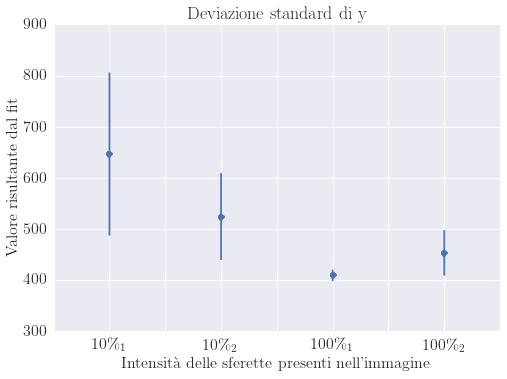
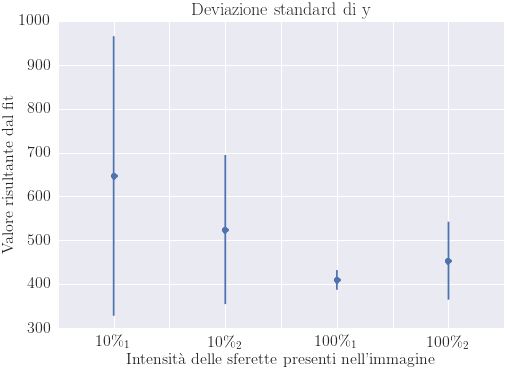
Aggiunte le matrici di correlazione

diff --git a/cap4.tex b/cap4.tex
@@ -146,37 +146,39 @@ Dalle Figure \ref{fig:gauss1}, \ref{fig:gauss2}, \ref{fig:gauss3} e \ref{fig:gau
 
 \begin{figure}
  \centering
- \includegraphics[scale=.50]{img/CAP4gauss1.png}
+ \includegraphics[scale=.45]{img/CAP4gauss1.png}
  \caption{\small{Immagine in visione ``cross eyed stereoscopic'' corrispondente alla prima immagine di calibrazione con intensità relativa del 10\%: i puntini rappresentano i massimi mentre la superficie è quella risultante dal fit di maximum likelihood.}}
  \label{fig:gauss1}
 \end{figure}
 
 \begin{figure}
  \centering
- \includegraphics[scale=.50]{img/CAP4gauss2.png}
+ \includegraphics[scale=.45]{img/CAP4gauss2.png}
  \caption{\small{Immagine in visione ``cross eyed stereoscopic'' corrispondente alla seconda immagine di calibrazione con intensità relativa del 10\%: i puntini rappresentano i massimi mentre la superficie è quella risultante dal fit di maximum likelihood.}}
  \label{fig:gauss2}
 \end{figure}
 
 \begin{figure}
  \centering
- \includegraphics[scale=.50]{img/CAP4gauss3.png}
+ \includegraphics[scale=.45]{img/CAP4gauss3.png}
  \caption{\small{Immagine in visione ``cross eyed stereoscopic'' corrispondente alla prima immagine di calibrazione con intensità relativa del 100\%: i puntini rappresentano i massimi mentre la superficie è quella risultante dal fit di maximum likelihood.}}
  \label{fig:gauss3}
 \end{figure}
 
 \begin{figure}
  \centering
- \includegraphics[scale=.50]{img/CAP4gauss4.png}
+ \includegraphics[scale=.45]{img/CAP4gauss4.png}
  \caption{\small{Immagine in visione ``cross eyed stereoscopic'' corrispondente alla seconda immagine di calibrazione con intensità relativa del 100\%: i puntini rappresentano i massimi mentre la superficie è quella risultante dal fit di maximum likelihood.}}
  \label{fig:gauss4}
 \end{figure}
 
-Per poter avere un'analisi di carattere più quantitativo sono stati visualizzati i parametri $bg,\ maxint,\ cx,\ cy,\ dsx,\ dsy,\ corr$ ed $e$ ottenuti dalla stima di massima verosimiglianza (capitolo 3.1) eseguita nei quattro casi (Figure \ref{fig:cx}, \ref{fig:cy}, \ref{fig:dsy}, \ref{fig:dsy} \ref{fig:bg}, \ref{fig:intmax}, \ref{fig:corr} e \ref{fig:e}).
+Per poter avere un'analisi di carattere più quantitativo sono stati visualizzati i parametri $bg,\ maxint,\ cx,\ cy,\ dsx,\ dsy,\ corr$ ed $e$ ottenuti dalla stima di massima verosimiglianza (capitolo 3.1) eseguita nei quattro casi (Figure \ref{fig:cx}, \ref{fig:cy}, \ref{fig:dsx}, \ref{fig:dsy} \ref{fig:bg}, \ref{fig:intmax}, \ref{fig:corr} e \ref{fig:e}).
 Queste stime di massima verosimiglianza sono state inoltre raccolte nella \tablename~\ref{TABris}, assieme al primo parametro approssimato di background $bg_0$, calcolato inizialmente come massimo delle mode di ogni riga della matrice bidimensionale corrispondente all'immagine.
 
 Dall'analisi di questi risultati si nota che differenti immagini di calibrazione comportano in genere differenti parametri, sebbene i valori si mantengano solitamente entro lo stesso ordine di grandezza.
 Tuttavia per avere una miglior valutazione dell'effetto che tali differenze potrebbero comportare sulla correzione finale dell'immagine bisognerebbe eseguire elaborazioni successive, più raffinate rispetto alla semplice analisi qui riportata.
+
+Nelle Figure \ref{fig:c1}, \ref{fig:c2}, \ref{fig:c3}, \ref{fig:c4} sono riportate le matrici di correlazione tra le stime dei parametri per le quattro differenti immagini di calibrazione.
 
 \begin{table}
  \begin{center}
@@ -197,7 +199,7 @@ $\mathbf{maxint}$&$167\pm104$&$150\pm41$&$229\pm15$&$414\pm87$\\
 $\mathbf{e}$&$3.2\pm0.6$&$2.1\pm0.3$&$3.6\pm0.4$&$2.5\pm0.4$\\
 \hline\hline
 \end{tabular}
-\caption{\small{Confronto dei parametri ottenuti nella prima fase dell'algoritmo con quattro distinte immagini di calibrazione ad una sola intensità.}}
+\caption{\small{Confronto dei parametri ottenuti nella prima fase dell'algoritmo con quattro distinte immagini di calibrazione ad una sola intensità. Per ciascun parametro del fit vengono riportate la miglior stima e la deviazione standard associata, ottenute dalla procedura di fit. La precisione dei valori risulta elevata proprio poiché non si tratta di incertezze associate alla stima, bensì dei valori che approssimano localmente la funzione di likelihood con una distribuzione gaussiana.}}
 \label{TABris}
 \end{small}
 \end{center}
@@ -206,57 +208,85 @@ $\mathbf{e}$&$3.2\pm0.6$&$2.1\pm0.3$&$3.6\pm0.4$&$2.5\pm0.4$\\
 \begin{figure}
  \centering
  \includegraphics[scale=.50]{img/CAP4cx.png}
- \caption{\small{Parametro $cx$ (centro delle x) ed errore associato, ottenuti tramite il fit di maximum likelihood presente nell'algoritmo, per le quattro differenti immagini di calibrazione ad una sola intensità.}}
+ \caption{\small{Parametro $cx$ (centro delle x) e intervallo di confidenza al 95\%, ottenuti tramite il fit di maximum likelihood presente nell'algoritmo, per le quattro differenti immagini di calibrazione ad una sola intensità.}}
  \label{fig:cx}
 \end{figure}
 
 \begin{figure}
  \centering
  \includegraphics[scale=.50]{img/CAP4cy.png}
- \caption{\small{Parametro $cy$ (centro delle y) ed errore associato, ottenuti tramite il fit di maximum likelihood presente nell'algoritmo, per le quattro differenti immagini di calibrazione ad una sola intensità.}}
+ \caption{\small{Parametro $cy$ (centro delle y) e intervallo di confidenza al 95\%, ottenuti tramite il fit di maximum likelihood presente nell'algoritmo, per le quattro differenti immagini di calibrazione ad una sola intensità.}}
  \label{fig:cy}
 \end{figure}
 
 \begin{figure}
  \centering
  \includegraphics[scale=.50]{img/CAP4dsx.png}
- \caption{\small{Parametro $dsx$ (deviazione standard di x) ed errore associato, ottenuti tramite il fit di maximum likelihood presente nell'algoritmo, per le quattro differenti immagini di calibrazione ad una sola intensità.}}
+ \caption{\small{Parametro $dsx$ (deviazione standard di x) e intervallo di confidenza al 95\%, ottenuti tramite il fit di maximum likelihood presente nell'algoritmo, per le quattro differenti immagini di calibrazione ad una sola intensità.}}
  \label{fig:dsx}
 \end{figure}
 
 \begin{figure}
  \centering
  \includegraphics[scale=.50]{img/CAP4dsy.png}
- \caption{\small{Parametro $dsy$ (deviazione standard di y) ed errore associato, ottenuti tramite il fit di maximum likelihood presente nell'algoritmo, per le quattro differenti immagini di calibrazione ad una sola intensità.}}
+ \caption{\small{Parametro $dsy$ (deviazione standard di y) e intervallo di confidenza al 95\%, ottenuti tramite il fit di maximum likelihood presente nell'algoritmo, per le quattro differenti immagini di calibrazione ad una sola intensità.}}
  \label{fig:dsy}
 \end{figure}
 
 \begin{figure}
  \centering
  \includegraphics[scale=.50]{img/CAP4bg.png}
- \caption{\small{Parametro $bg$ (background) ed errore associato, ottenuti tramite il fit di maximum likelihood presente nell'algoritmo, per le quattro differenti immagini di calibrazione ad una sola intensità.}}
+ \caption{\small{Parametro $bg$ (background) e intervallo di confidenza al 95\%, ottenuti tramite il fit di maximum likelihood presente nell'algoritmo, per le quattro differenti immagini di calibrazione ad una sola intensità.}}
  \label{fig:bg}
 \end{figure}
 
 \begin{figure}
  \centering
  \includegraphics[scale=.50]{img/CAP4intmax.png}
- \caption{\small{Parametro $maxint$ (intensità massima) ed errore associato, ottenuti tramite il fit di maximum likelihood presente nell'algoritmo, per le quattro differenti immagini di calibrazione ad una sola intensità.}}
+ \caption{\small{Parametro $maxint$ (intensità massima) e intervallo di confidenza al 95\%, ottenuti tramite il fit di maximum likelihood presente nell'algoritmo, per le quattro differenti immagini di calibrazione ad una sola intensità.}}
  \label{fig:intmax}
 \end{figure}
 
 \begin{figure}
  \centering
  \includegraphics[scale=.50]{img/CAP4corr.png}
- \caption{\small{Parametro $corr$ (correlazione tra x ed y) ed errore associato, ottenuti tramite il fit di maximum likelihood presente nell'algoritmo, per le quattro differenti immagini di calibrazione ad una sola intensità.}}
+ \caption{\small{Parametro $corr$ (correlazione tra x ed y) e intervallo di confidenza al 95\%, ottenuti tramite il fit di maximum likelihood presente nell'algoritmo, per le quattro differenti immagini di calibrazione ad una sola intensità.}}
  \label{fig:corr}
 \end{figure}
 
 \begin{figure}
  \centering
  \includegraphics[scale=.50]{img/CAP4e.png}
- \caption{\small{Parametro $e$ (esponente) ed errore associato, ottenuti tramite il fit di maximum likelihood presente nell'algoritmo, per le quattro differenti immagini di calibrazione ad una sola intensità.}}
+ \caption{\small{Parametro $e$ (esponente) e intervallo di confidenza al 95\%, ottenuti tramite il fit di maximum likelihood presente nell'algoritmo, per le quattro differenti immagini di calibrazione ad una sola intensità.}}
  \label{fig:e}
+\end{figure}
+
+\begin{figure}
+ \centering
+ \includegraphics[scale=.45]{img/CAP4c1.png}
+ \caption{\small{Matrice di correlazione tra le stime dei parametri ottenuti dal fit di maximum likelihood per l'immagine di calibrazione $10\%_1$.}}
+ \label{fig:c1}
+\end{figure}
+
+\begin{figure}
+ \centering
+ \includegraphics[scale=.45]{img/CAP4c2.png}
+ \caption{\small{Matrice di correlazione tra le stime dei parametri ottenuti dal fit di maximum likelihood per l'immagine di calibrazione $10\%_2$.}}
+ \label{fig:c2}
+\end{figure}
+
+\begin{figure}
+ \centering
+ \includegraphics[scale=.45]{img/CAP4c3.png}
+ \caption{\small{Matrice di correlazione tra le stime dei parametri ottenuti dal fit di maximum likelihood per l'immagine di calibrazione $100\%_1$.}}
+ \label{fig:c3}
+\end{figure}
+
+\begin{figure}
+ \centering
+ \includegraphics[scale=.45]{img/CAP4c4.png}
+ \caption{\small{Matrice di correlazione tra le stime dei parametri ottenuti dal fit di maximum likelihood per l'immagine di calibrazione $100\%_2$.}}
+ \label{fig:c4}
 \end{figure}
 
 
